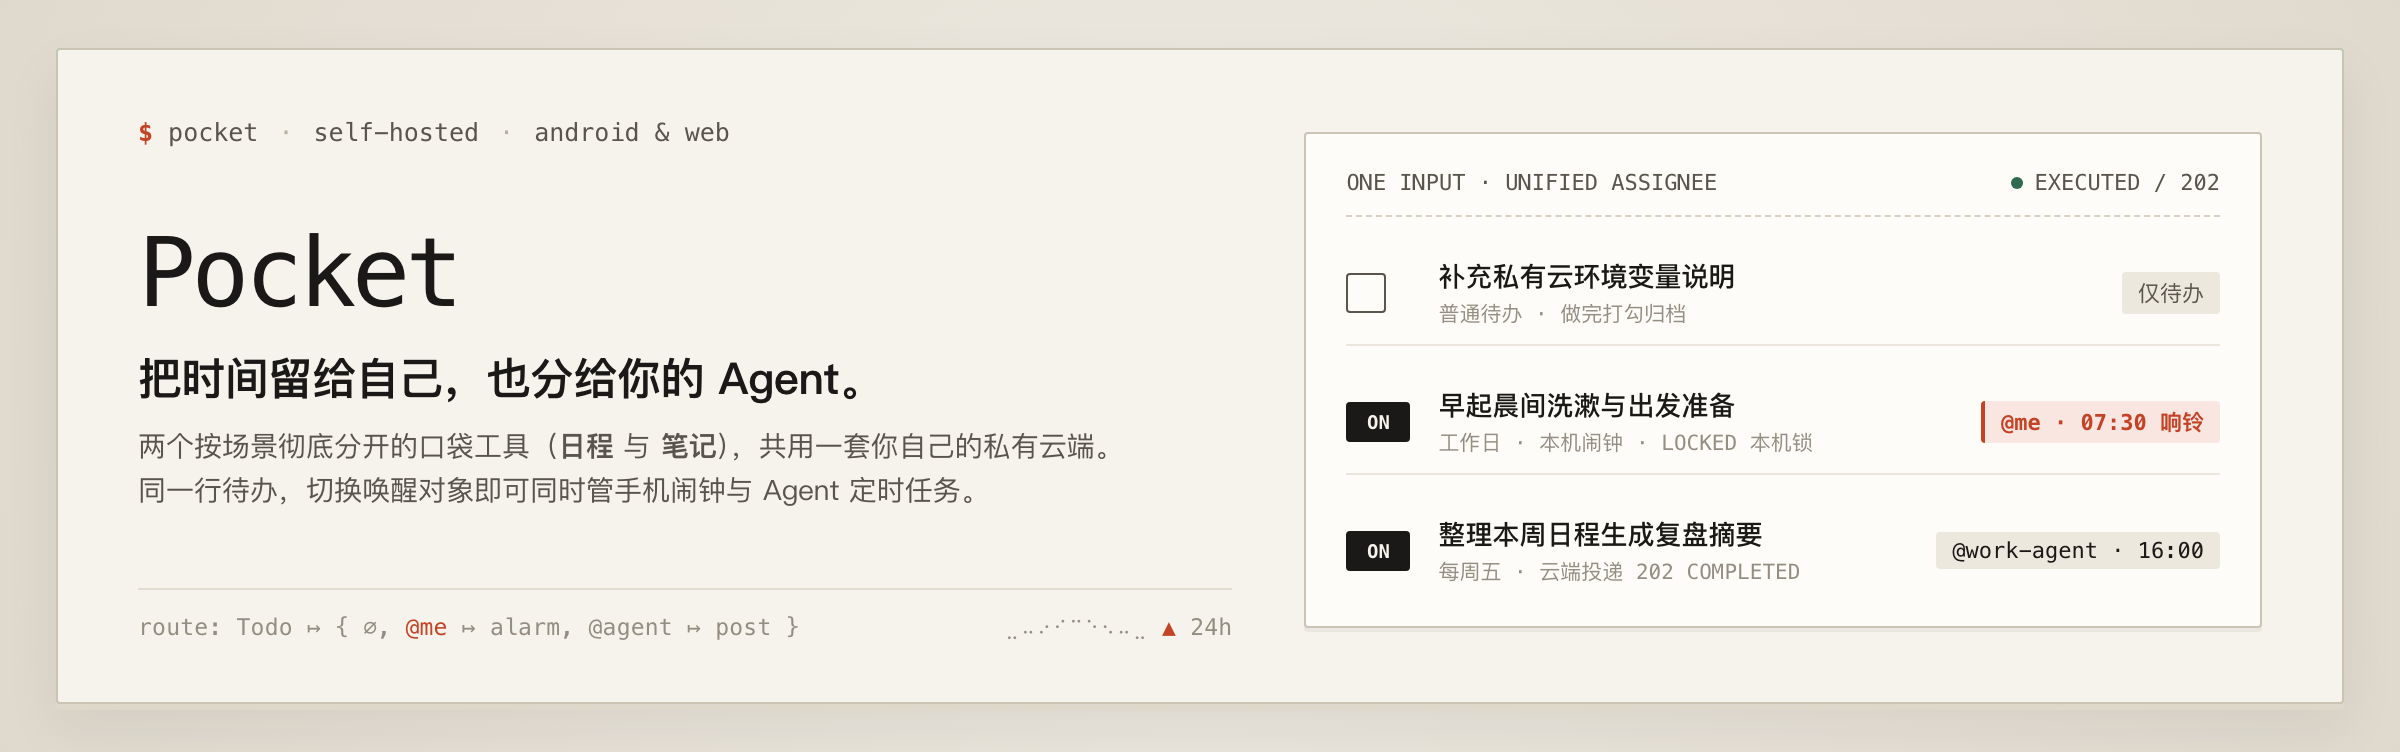
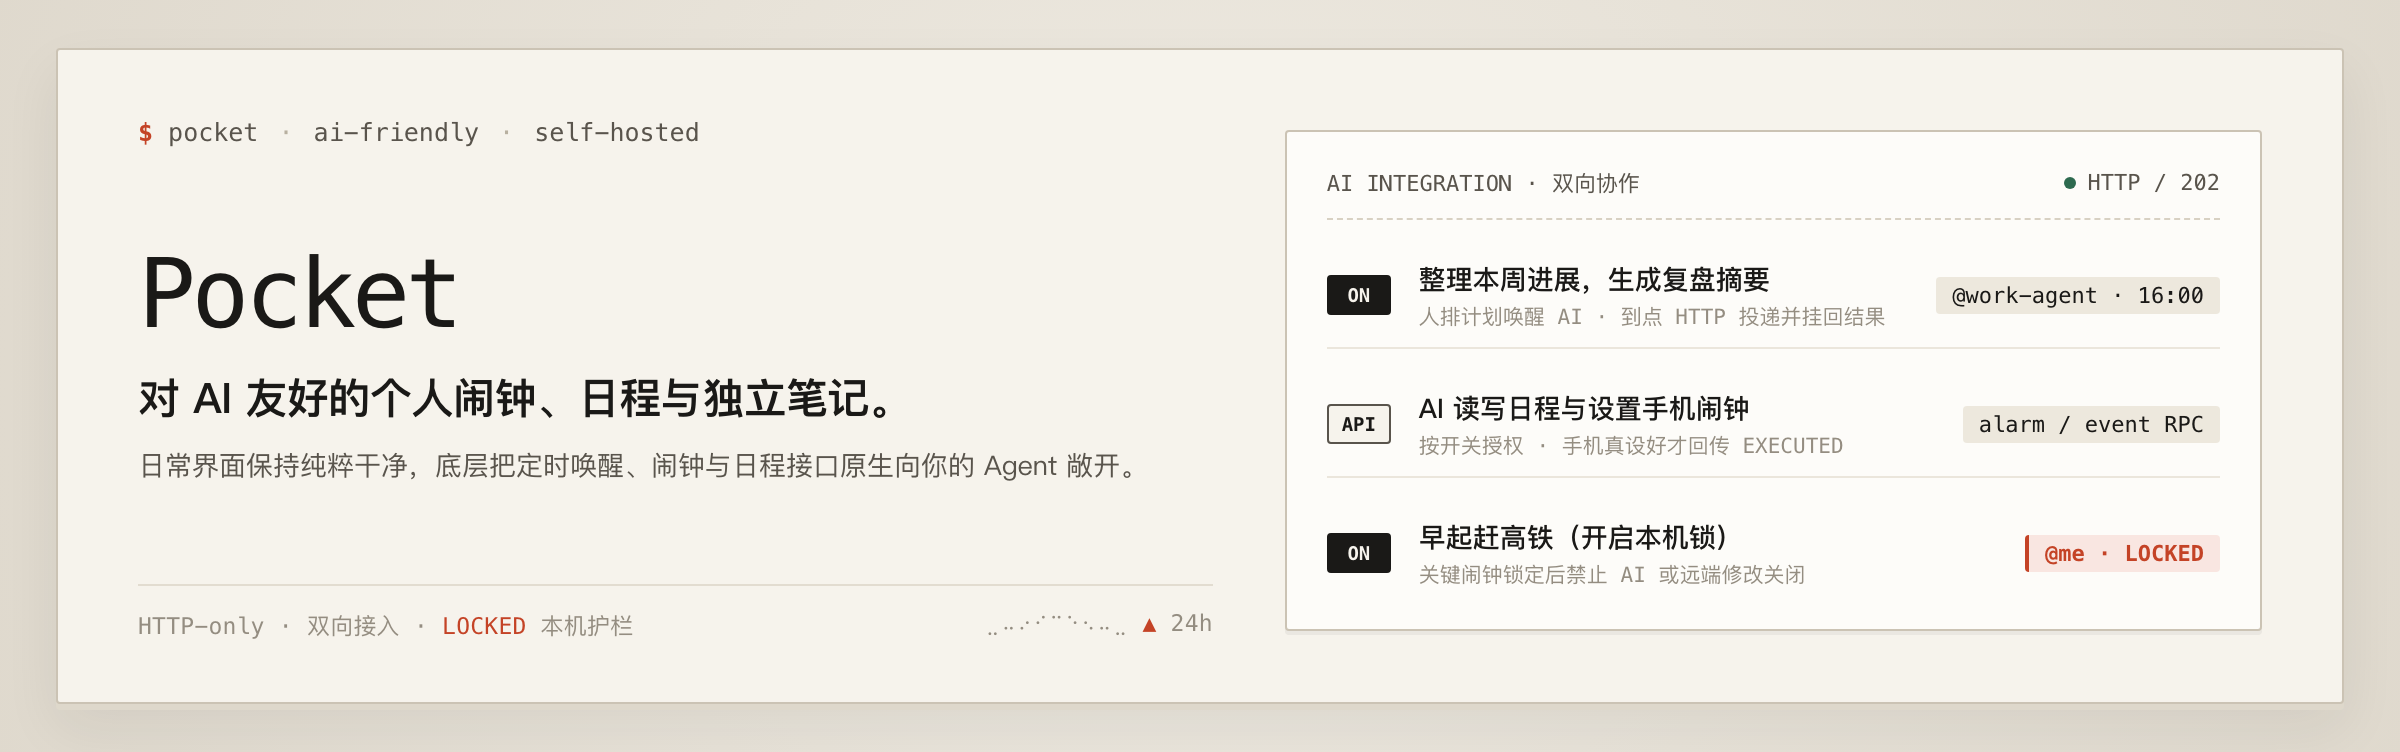
Rewrite README with plain AI-integration story and features

diff --git a/README.md b/README.md
@@ -1,5 +1,5 @@
 <div align="center">
-  <img src="docs/assets/pocket-hero.png" alt="Pocket — 把时间留给自己，也分给你的 Agent" width="100%">
+  <img src="docs/assets/pocket-hero.png" alt="Pocket — 对 AI 友好的个人闹钟、日程与独立笔记" width="100%">
   <br><br>
   <p>
     <a href="https://github.com/12bitsD/pocket/actions/workflows/test.yml"><img src="https://img.shields.io/github/actions/workflow/status/12bitsD/pocket/test.yml?branch=main&style=flat-square&label=checks&color=1a1917" alt="Checks"></a>
@@ -8,30 +8,44 @@
     <img src="https://img.shields.io/badge/cloud-self--hosted-c44326?style=flat-square" alt="Self-hosted">
   </p>
   <p>
-    <a href="#一套语法叫醒不同的人">核心概念</a> ·
+    <a href="#为什么做-pocket">为什么做</a> ·
+    <a href="#怎么接入-ai">怎么接入 AI</a> ·
     <a href="#界面一览">界面一览</a> ·
-    <a href="#两个独立工具">产品构成</a> ·
-    <a href="#下载与部署">下载与部署</a> ·
-    <a href="#目录结构">目录结构</a>
+    <a href="#两个独立应用">产品构成</a> ·
+    <a href="#下载与部署">下载与部署</a>
   </p>
 </div>
 
 ---
 
-## 一套语法，叫醒不同的人
+## 为什么做 Pocket
 
-无论「定个手机闹钟」还是「给 AI Agent 排个定时任务」，本质上都是**在指定时间做一件事**——唯一的区别只是**到点叫醒谁**。
+现在市面上大部分闹钟、日历和待办软件，对 AI 其实都不太友好——数据关在各自的孤岛里，很难干净、稳定地接进自己的 Agent。
 
-Pocket 把它们收进同一行待办里，不再拆成两套割裂的表单：
+翻了一圈现有的开源项目，也没有找到顺手合适的方案，最后下定决心干脆自己烧 token 从头把这一套开发出来。
 
-```text
-补充环境变量说明                 →  仅待办        做完打勾归档
-@me 07:30 早起赶高铁             →  手机准点响铃  离线可用 · 锁屏唤醒 · 防误改本机锁
-@work-agent 16:00 整理本周进展   →  Agent 执行    云端准点投递 · 执行摘要直接挂回原条目
-```
+想法很朴素：**不在日常工具里硬塞一个难用的 AI 聊天窗口**，而是先把每天真要用的闹钟、日程、待办（以及后面独立的笔记）做干净，同时从底层把接口原生向你自己的 AI 敞开。
 
-- **单次与循环自然区分**：一次性事项配完成方框，做完即划掉；每天/每周循环项自动变为启停开关，支持「跳过下一次」与防远程误改的「本机锁」。
-- **诚实状态，不报假喜**：只有手机真正写进系统闹钟、或外部 Agent 明确接收任务后，才会点亮就绪状态。
+---
+
+## 怎么接入 AI
+
+Pocket 围绕「人和自己的 Agent 怎么配合管时间」设计了 4 个核心能力：
+
+### 1. 在 Todo 里直接 `@` 你的 Agent，到点自动唤醒它干活
+不用把“个人闹钟”和“AI 定时任务”拆成两套系统。在同一行待办里：
+- 选 **`@me 07:30`** → 同步到手机系统闹钟准点响铃（断网可用、半夜重启也能恢复）；
+- 选 **`@work-agent 16:00`** → 到点由私有云直接把这条内容通过 HTTP 发给你的 Agent 去跑，**不要求手机亮屏在线**，跑完的结果摘要直接挂回原待办下面。
+
+### 2. AI 也能反过来帮你排日程、设真机闹钟
+给你的 Agent 配一把受限密钥，它就能直接调接口查你的空档、建日程、加待办或设手机闹钟。状态完全诚实——只有手机真正写进系统闹钟后才返回 `EXECUTED`，手机离线排队或失败都会如实告知，不报假喜。
+
+### 3. 给关键事项留“人类护栏”：本机锁与按需授权
+- **本机锁（`LOCKED`）**：像早起赶高铁这种不能出岔子的闹钟，在手机上打开本机锁后，AI 和远端一律不能修改或关闭，防误操作。
+- **按开关细粒度授权**：哪个 Agent 只允许读日程、哪个允许改待办、或者（后续）只允许读哪几篇笔记，全部单独开关控制，随时可撤回。
+
+### 4. 纯 HTTP 接入，不绑死任何 AI 框架
+不管你用的是自建 Agent、Claude / Codex 脚本还是自动化工作流，只要能收发普通 HTTP JSON 请求，填一个地址和密钥就能连进来。
 
 ---
 
@@ -41,45 +55,40 @@ Pocket 把它们收进同一行待办里，不再拆成两套割裂的表单：
   <img src="docs/assets/pocket-screens.png" alt="Pocket Calendar 三栏界面：今日日程、月历、统一 Todo" width="100%">
 </p>
 
-| 栏位 | 做什么 |
+| 栏位 | 说明 |
 | --- | --- |
-| **`[d]` 今日日程** | **只看今天**。顶部白卡聚焦下一场安排，下方列出今日其余场次与时间冲突提醒，不被跨天杂事打扰。 |
-| **`[m]` 月历** | **全局排期**。7 列等宽月历，用朱砂与墨点区分强提醒与普通日程，点选任意日期查看或新建。 |
-| **`[t]` Todo** | **统一指派**。同一个输入框与时间选择器（支持直接键入 `@me 07:30` 识别），一处管好待办、闹钟与 Agent 计划。 |
+| **`[d]` 今日日程** | 只显示今天当天的安排（下一场主角卡 + 今日其余场次 + 时间重叠提醒），不被跨天事项干扰。 |
+| **`[m]` 月历** | 7 列等宽月历，区分强提醒响铃与普通日程，点选任意日期查看或新建。 |
+| **`[t]` Todo** | 一套输入同时管普通待办、`@me` 手机闹钟与 `@agent` 定时任务；单次事项打勾归档，周期任务用开关启停并支持跳过下一次。 |
 
-内置暖亚麻浅色纸面与夜间深炭纸两种主题（快捷键 `b` 一键切换）。
+支持浅色暖亚麻纸与夜间深炭纸两种主题（按键 `b` 切换）。
 
 ---
 
-## 两个独立工具
+## 两个独立应用
 
-Pocket **不做把所有功能塞进一个图标的臃肿全家桶**，而是按使用场景彻底拆成两个独立应用，共用同一套个人私有云端：
+使用场景不同的工具不硬塞进一个臃肿软件里。Pocket 拆成两个完全独立的应用，共用同一套个人私有云端：
 
-| 应用 | 场景与定位 | 当前状态 |
+| 应用 | 定位 | 状态 |
 | --- | --- | --- |
-| **Pocket Calendar** | 日常时间、日程、手机闹钟与 Agent 定时任务（`今日日程 / 月历 / Todo`） | 原型与架构已定稿 · 主线开发中 |
-| **Pocket Notes** | 独立写作与知识沉淀，支持按篇授权给指定 Agent 读取 | 规划中（独立安装包与入口） |
+| **Pocket Calendar** | 日程、月历、手机闹钟与 Agent 定时任务合一 | 原型与架构已定稿 · 主线开发中 |
+| **Pocket Notes** | 独立笔记应用，支持按篇勾选授权给指定 Agent 读取 | 规划中（独立安装包与入口） |
 
 ---
 
 ## 下载与部署
 
-### 1. 获取客户端
+### 客户端
+前往 **[GitHub Releases](https://github.com/12bitsD/pocket/releases)** 下载对应应用的独立安装包（`calendar-v*` / `notes-v*`）。  
+本地直接预览交互原型：浏览器打开 [`apps/calendar/index.html`](apps/calendar/index.html) 即可体验。
 
-前往 **[GitHub Releases](https://github.com/12bitsD/pocket/releases)** 下载对应应用的独立发布包（`calendar-v*` / `notes-v*`）。
-
-想直接在本地浏览器体验交互原型，无需安装构建，直接打开 [`apps/calendar/index.html`](apps/calendar/index.html) 即可（支持键盘 `d / m / t / n / c / b` 操作）。
-
-### 2. 部署私有云端
-
-服务端配置集中在 [`cloud/`](cloud) 目录，一条命令拉起数据库与同步调度服务：
+### 私有云端
+后端配置统一放在 [`cloud/`](cloud) 目录：
 
 ```sh
 cp cloud/.env.example cloud/.env
 docker compose -f cloud/docker-compose.yml up -d
 ```
-
-电脑端使用初始密钥登录，手机端输入 **5 分钟有效的 6 位配对码** 即可完成绑定。
 
 ---
 
@@ -88,20 +97,12 @@ docker compose -f cloud/docker-compose.yml up -d
 ```text
 pocket/
 ├── apps/
-│   ├── calendar/       独立应用 1：时间与日程（今日日程 / 月历 / Todo）
+│   ├── calendar/       独立应用 1：日程、闹钟与 Agent 待办
 │   └── notes/          独立应用 2：独立笔记（规划中）
-├── cloud/              私有云端配置与后端服务（Docker Compose / 环境变量）
-├── packages/
-│   ├── agent-core/     共享定时与 @指派解析逻辑
-│   └── design-system/  共享活字工单 × 终端视觉样式
-├── docs/               架构设计、持续演进的设计标准与发布说明
+├── cloud/              私有云端配置与后端服务
+├── packages/           共享定时契约与纸墨终端样式
+├── docs/               架构设计、设计标准与发布约定
 └── scripts/            校验与 Release 打包脚本
 ```
 
-本地开发校验：
-
-```sh
-npm test && npm run check
-```
-
-更深入的系统设计细节见 [`docs/architecture.md`](docs/architecture.md) 与 [`docs/design-standard.md`](docs/design-standard.md)。
+需要了解底层设计细节可查看 [`docs/architecture.md`](docs/architecture.md) 与 [`docs/design-standard.md`](docs/design-standard.md)。
